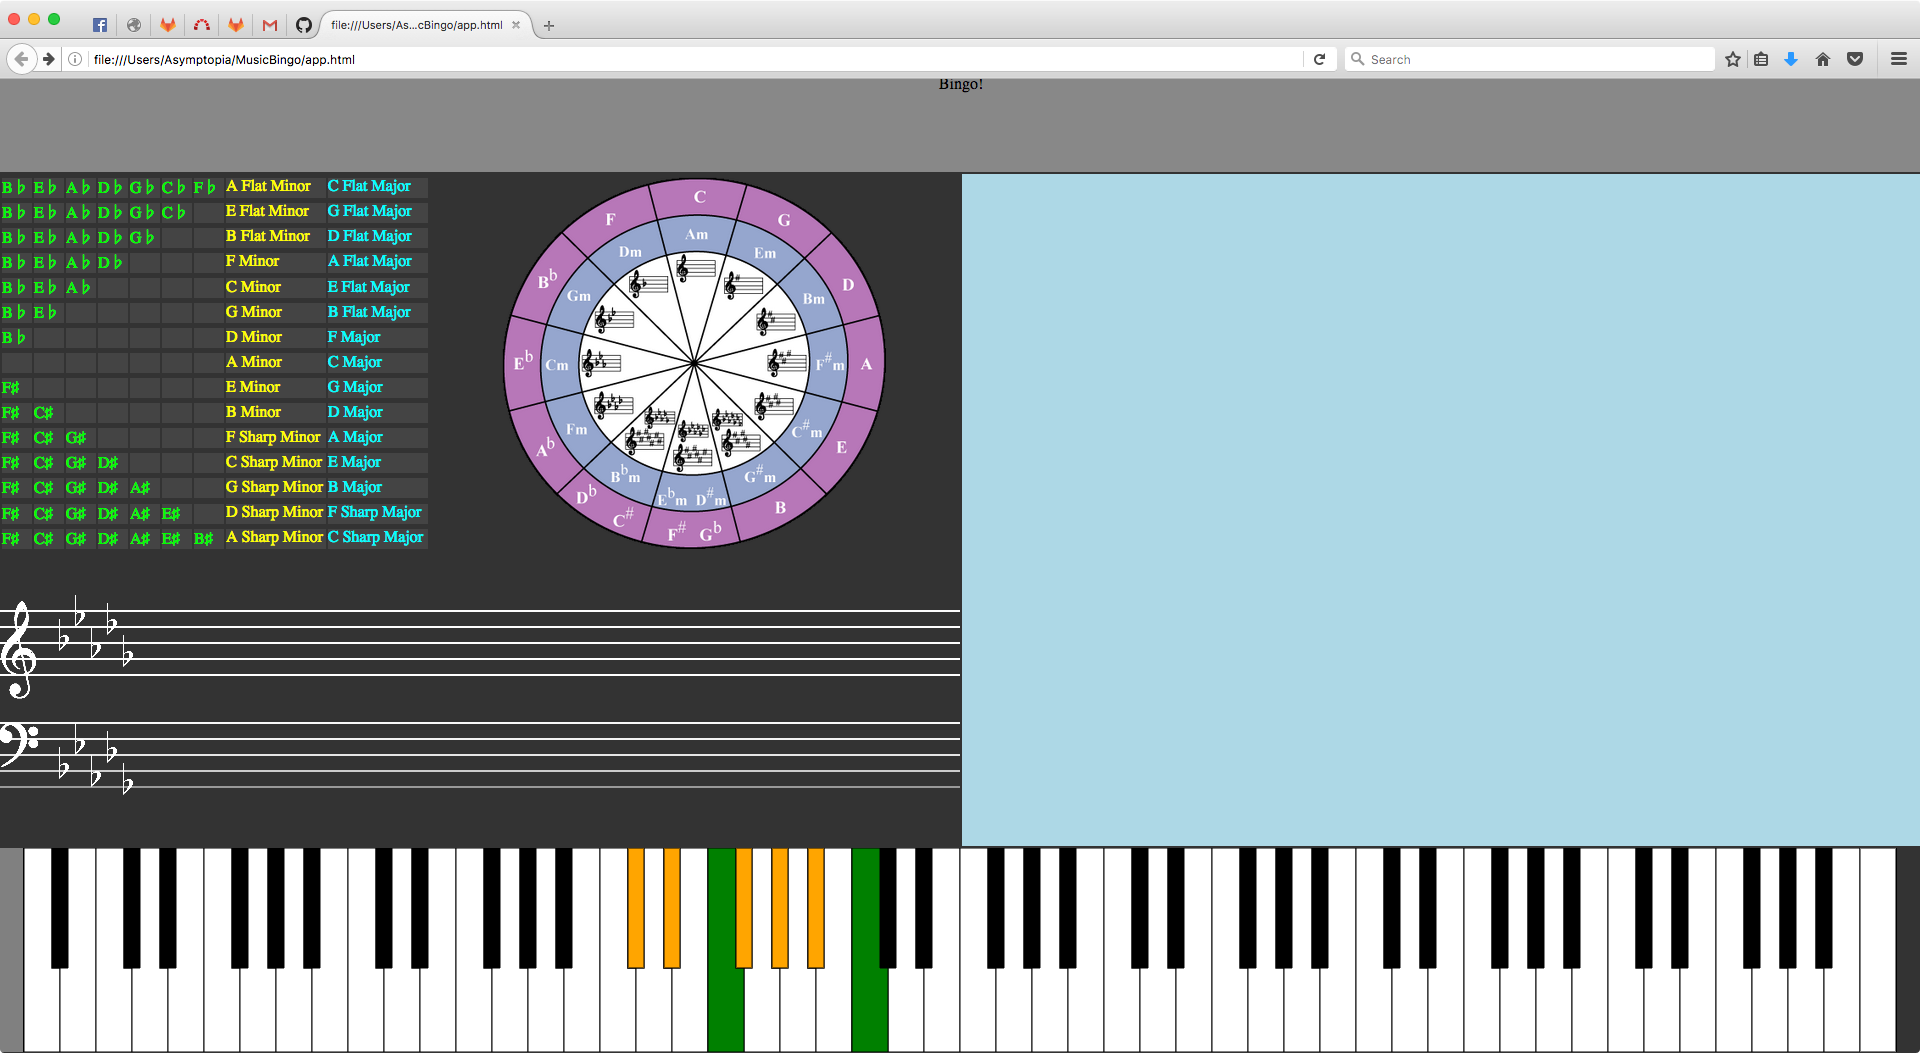
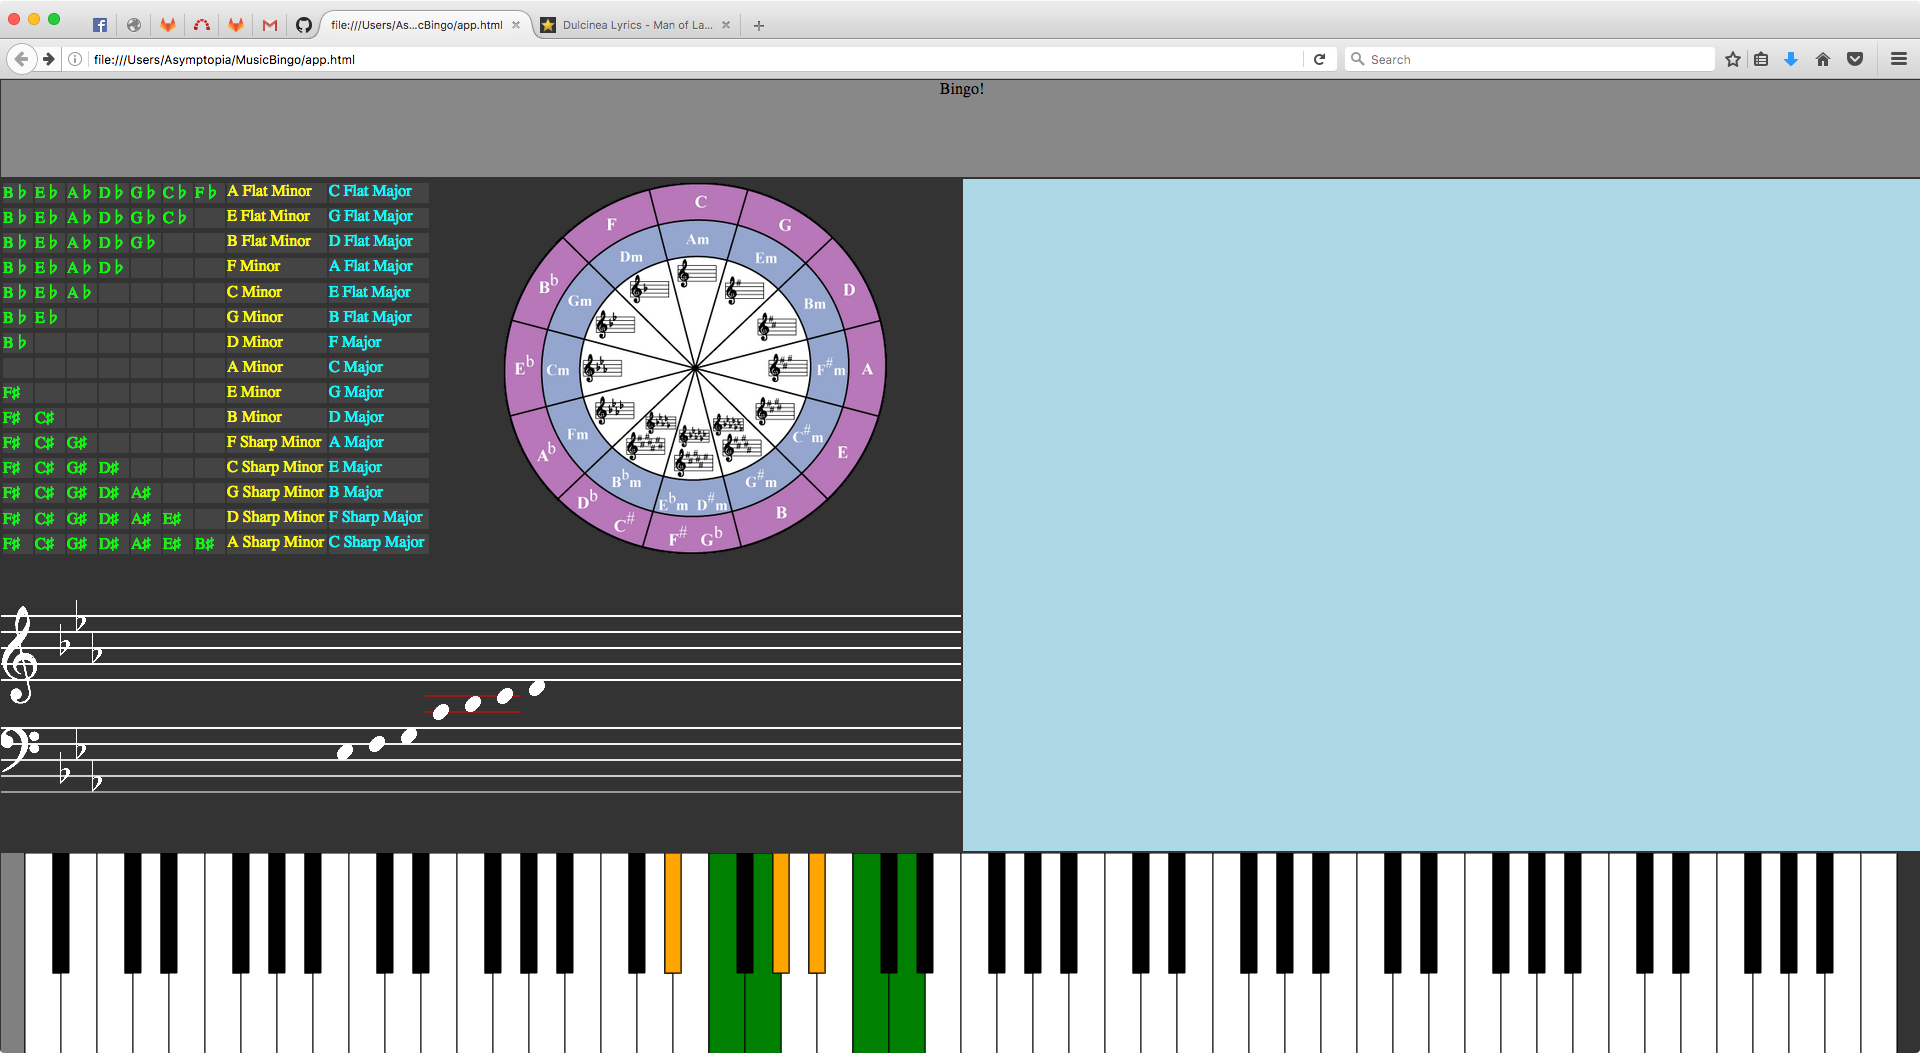
scales and ledger lines

diff --git a/keysigs.js b/keysigs.js
@@ -20,6 +20,7 @@ var KeySigs=function(){
 		window.staff.clear()
 		window.staff.drawStaff()
 		window.staff.drawKeysig(sigkey)
+/*
 		window.staff.drawNote(false,false,3,'C')
 		window.staff.drawNote(false,false,3,'D')
 		window.staff.drawNote(false,false,3,'E')
@@ -27,7 +28,7 @@ var KeySigs=function(){
 		window.staff.drawNote(false,false,3,'G')
 		window.staff.drawNote(false,false,3,'A')
 		window.staff.drawNote(false,false,3,'B')
-
+*/
 //Let's just apply keys from here:
 		min_root=me.sigs[sigkey]['min_root']//me.getNext(sigkey,'minkey_midi_roots',59)
 		maj_root=me.sigs[sigkey]['maj_root']//me.getNext(sigkey,'majkey_midi_roots',59)
@@ -67,11 +68,24 @@ var KeySigs=function(){
 		if(key['name']=='E#')keyname2use='F'//this one is different;f-flat=E
 		if(key['name']=='F#')keyname2use='G'//ie g-flat
 		if(key['name']=='G#')keyname2use='A'
-
-		if(me.sigs[sigkey]['flatlist'].indexOf(keyname2use)>-1)
-				keycolor='orange'
+		if(me.sigs[sigkey]['flatlist'].indexOf(keyname2use)>-1){
+			keycolor='orange'
+			if(sigkey=='-7'){
+				keyname2use='C'
+				console.log("special case for c-flat major")
+			}
+		}
+		else keyname2use=key['name'][0]
 
 		window.keyboard.colorKey(root-21,keycolor)
+
+		var sharp=false;
+//		if(keycolor=='red')sharp=true;
+		var flat=false;
+//		if(keycolor=='orange')flat=true;
+		console.log(key['name']+","+keyname2use+","+key['octave'])
+		window.staff.drawNote(sharp,flat,key,keyname2use)
+
 		for(var idx=0;idx<indices.length-1;idx++){
 			root+=indices[idx]
 //			console.log("root: "+root)
@@ -82,8 +96,9 @@ var KeySigs=function(){
 			var key=window.keyboard.keys[kidx]
 			console.log(key['name'],key['midi'])
 			keycolor='green'
-			if(me.sigs[sigkey]['sharplist'].indexOf(key['name'][0])>-1)
+			if(me.sigs[sigkey]['sharplist'].indexOf(key['name'][0])>-1){
 				keycolor='red'
+			}
 
 			var keyname2use=key['name']
 			if(key['name']=='A#')keyname2use='B'
@@ -94,9 +109,35 @@ var KeySigs=function(){
 			if(key['name']=='F#')keyname2use='G'//ie g-flat
 			if(key['name']=='G#')keyname2use='A'
 
-			if(me.sigs[sigkey]['flatlist'].indexOf(keyname2use)>-1)
-					keycolor='orange'
+			if(me.sigs[sigkey]['flatlist'].indexOf(keyname2use)>-1){
+				keycolor='orange'
+				if(sigkey=='-7' && key['name']=='E')
+					keyname2use='F'
+				else if(sigkey=='-6' && key['name']=='B')
+					keyname2use='C'
+			}
+			else if(sigkey=='6' && key['name']=='F'){
+				keyname2use='E'
+				console.log("changed kename2use -> E")
+			}
+			else if(sigkey=='7' && key['name']=='C'){
+				keyname2use='B'
+				console.log("changed kename2use -> B")
+			}
+			else if(sigkey=='7' && key['name']=='F'){
+				keyname2use='E'
+				console.log("changed kename2use -> E")
+			}
+			else keyname2use=key['name'][0]
+
 			window.keyboard.colorKey(root-21,keycolor)
+
+			var sharp=false;
+//			if(keycolor=='red')sharp=true;
+			var flat=false;
+//			if(keycolor=='orange')flat=true;
+			console.log(key['name']+","+keyname2use+","+key['octave'])
+			window.staff.drawNote(sharp,flat,key,keyname2use)
 		}
 	}//me.sigCB
 

diff --git a/staff.js b/staff.js
@@ -38,23 +38,40 @@ var Staff=function(){
 
 	me.clear=function(){
 		var bcr=me.canvas.getBoundingClientRect()
-		me.x0=bcr.width/2
+		me.x0=bcr.width/3
 		var ctx=me.canvas.getContext("2d")
 		ctx.fillStyle="#333333"
 		ctx.fillRect(0,0,bcr.width,bcr.height)
 	}
 
-	me.drawNote=function(sharp,flat,octave,note){
-		notes=['C','D','E','F','G','A','B']
+	me.drawNote=function(sharp,flat,key,keyname2use){
+		notes=['A','B','C','D','E','F','G']
 		var bcr=me.widget.getBoundingClientRect()
 		var h2=bcr.height/2
 		var dy=parseInt(bcr.height/18.)
-		var y0=h2-dy-notes.indexOf(note)*dy/2//-yidx*dy
 
+		var octave=key['octave']
+		if(key['midi']==56)octave=4//G# 3rd octave needs treated as 4th octave
+		var y0=h2-0*dy-notes.indexOf(keyname2use)*dy/2+(4-octave)*3.5*dy
+		if(octave<4){
+			y0=h2-1.5*dy-notes.indexOf(keyname2use)*dy/2+(4-octave)*12/2*dy
+		}
 		if(sharp)
 			ctx.drawImage(me.img_sharp,me.x0,y0-dy/2,dy,2*dy)
 		if(flat)
 			ctx.drawImage(me.img_flat,me.x0,y0-dy/2,dy,2*dy)
+
+//if midi<61 then draw 2x ledger
+		if(key['midi']<61 && octave>3){
+			for(var yidx=-1;yidx<1;yidx++){
+				ctx.strokeStyle='red'
+				ctx.beginPath()
+				ctx.moveTo(me.x0+dy/2,h2-dy/2-yidx*dy)
+				ctx.lineTo(me.x0+dy/2+2*dy,h2-dy/2-yidx*dy)
+				ctx.stroke()
+				ctx.closePath()
+			}
+		}
 
 		me.x0+=dy
 		ctx.drawImage(me.img_note,me.x0,y0,dy,dy)
